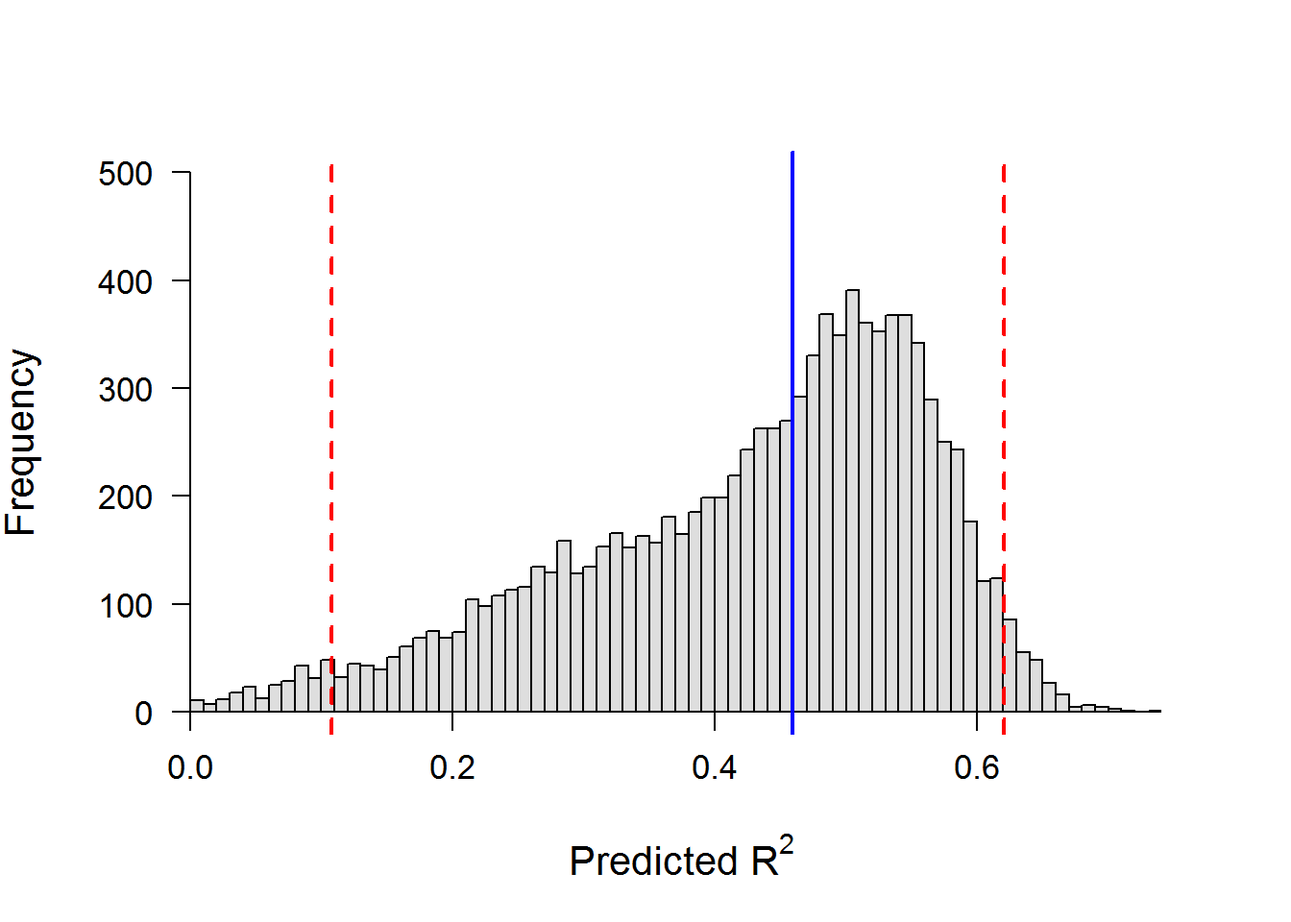
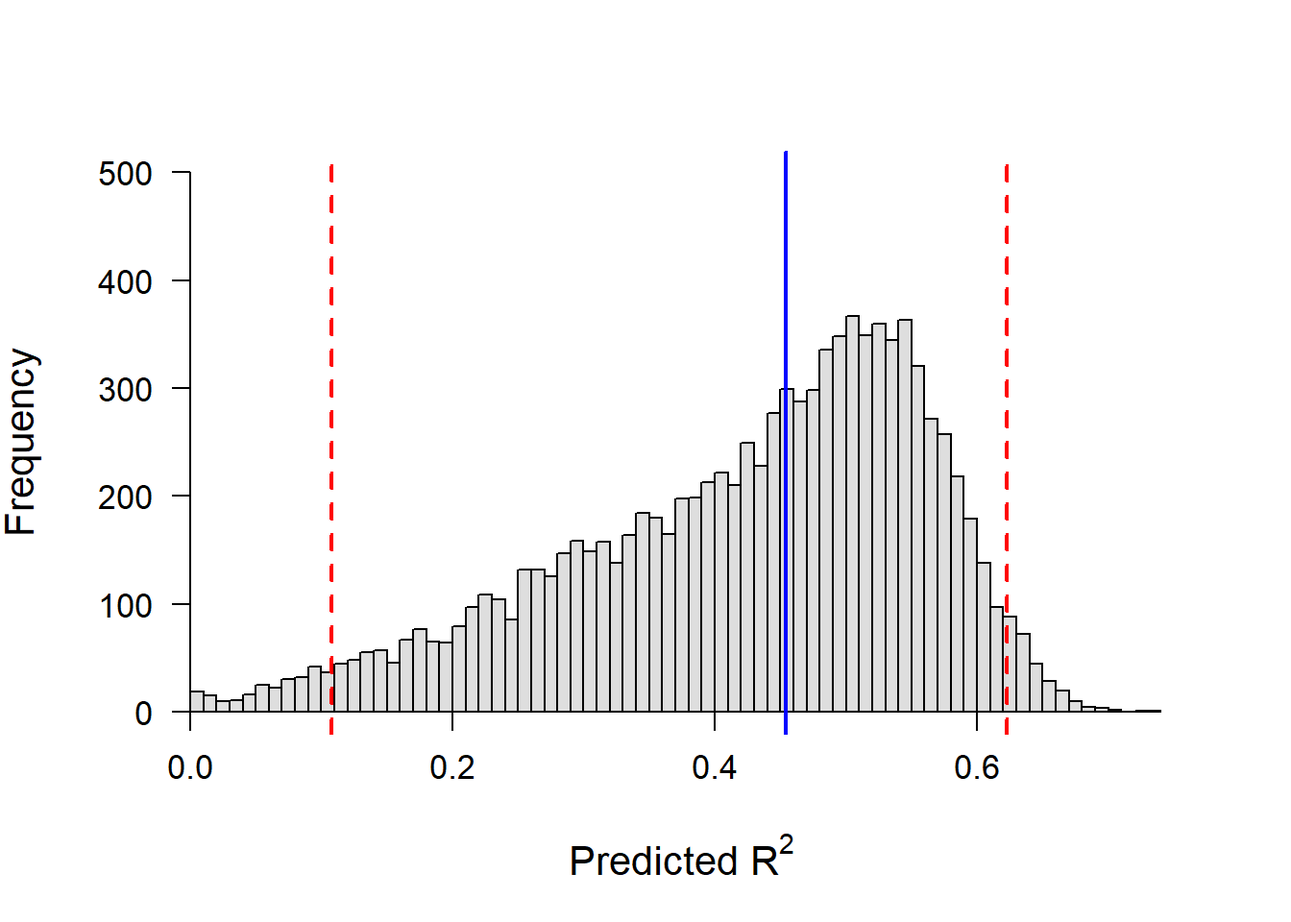
update model selection lecture mod

diff --git a/stich/classes/BIOL678/06_modelSelection.html b/stich/classes/BIOL678/06_modelSelection.html
@@ -286,18 +286,21 @@ Model selection
 Introduction
 </h2>
 <p>As we have learned in the past couple weeks, we often encounter situations for which there are mulitiple, competing hypotheses about what factors, or combinations of factors, best explain the observed patterns in our response of interest. This uncertainty can arise for one of two primary reasons:</p>
-<p><strong>1. Complexity of the study system</strong> Biological systems are complex, and often we are interested in which factor, or set of factors, best predict the patterns we observe in the natural world. In carefully designed experiments, we might be interested in evaluating competing hypotheses about mechanistic drivers of biological phenomena. In complex observational studies, we might simply wish to know what factor or subset of possible factors best predicts the patterns we observe, with the understanding that these findings cannot necessarily be used to infer causality (or ‘mechanism’).</p>
-<p><strong>2. Collinearity</strong> Oh, snap! What did he just say? <strong>Collinearity</strong> is the idea that certain explanatory variables are related to one another. I know, I know; last week I told you that the <em>independence of observations</em> was one of the fundamental assumptions that we make about linear models. That is, all observations are sampled independently from one another. This is a nice ideal, and in certain experimental designs that are “orthogonal”, we can design experiments in such a manner that variables are not collinear. But, in the real world, this is almost never the case.</p>
-<p>Model selection offers a means for us to weigh the information redundancy and effects of collinearity against the information that is gained as a result of including explanatory variables that are related to one another. In real-world cases, our best model will almost always fall somewhere between a model that contains all of the variables we want to include, and a model that contains only those variables that are not collinear.</p>
-<div id="methods-for-model-selection" class="section level3">
-<h3>Methods for model selection</h3>
+<p><strong>1. Complexity of the study system</strong></p>
+<p>Biological systems are complex, and often we are interested in which factor, or set of factors, best predict the patterns we observe in the natural world. In carefully designed experiments, we might be interested in evaluating competing hypotheses about mechanistic drivers of biological phenomena. In complex observational studies, we might simply wish to know what factor or subset of possible factors best predicts the patterns we observe, with the understanding that these findings cannot necessarily be used to infer causality (or ‘mechanism’).</p>
+<p><strong>2. Collinearity</strong></p>
+<p>Oh, snap! What did he just say? <strong>Collinearity</strong> is the idea that certain explanatory variables are related to one another. I know, I know; last week I told you that the <em>independence of observations</em> was one of the fundamental assumptions that we make about linear models. That is, all observations are sampled independently from one another. This is a nice ideal, and in certain experimental designs that are “orthogonal”, we can ensure that variables are not collinear. But, in the real world, this is almost never the case.</p>
+<p>Model selection offers a means for us to weigh the information redundancy and effects of collinearity against the information that is gained as a result of including explanatory variables that are related to one another. In real-world cases, our best model will almost always fall somewhere between a model that contains all of the variables we want to include, and a model that contains only one of those variables.</p>
+<div id="methods-for-model-selection" class="section level2">
+<h2>Methods for model selection</h2>
 <p>Here, we discuss approaches for applying our model-selection tool of choice. As always, I know it is hard to believe, but there is some controversy as to which method of model selection is best for a given situation. Generally speaking, there are 3 major classes of methods for model selection: step-wise selection, all possible subsets, and <em>a priori</em> subsets.</p>
-<div id="step-wise-selection--a-limited-treatment" class="section level4">
-<h4>Step-wise selection- a limited treatment</h4>
-<p>This approach has some well-known pitfalls. For example, it is easy to miss out on important relationships that are not considered because of the automated inclusion or exclusion of ‘significant’ explanatory variables and the order in which they are entered or dropped. This tool also does not include interaction terms that might be of biological interest!</p>
-<div id="forward-selection" class="section level5">
-<h5>Forward selection</h5>
-<p>We start by making a null model and a full model.</p>
+<div id="stepwise-selection--a-limited-treatment" class="section level3">
+<h3>Stepwise selection- a limited treatment</h3>
+<p>The basic idea behind stepwise selection is that we wish to create and test models in a variable-by-variable manner until only relevant variables are left in the model. The relevance of each variable is evaluated in turn relative to some pre-determined criterion.</p>
+<p>While convenient, this approach has some well-known pitfalls. For example, it is easy to miss out on important relationships that are not considered because of the automated inclusion or exclusion of ‘significant’ explanatory variables and the order in which they are entered or dropped. This tool also does not include interaction terms that might be of biological interest by default.</p>
+<div id="forward-selection" class="section level4">
+<h4>Forward selection</h4>
+<p>We start by making a “null” model with none of our variables (a model of the mean) and a full model with all of our explanatory variables.</p>
 <div class="sourceCode"><pre class="sourceCode r"><code class="sourceCode r">null=<span class="kw">lm</span>(Fertility<span class="op">~</span><span class="dv">1</span>, <span class="dt">data=</span>swiss) <span class="co"># 1 means include no x&#39;s</span>
 full=<span class="kw">lm</span>(Fertility<span class="op">~</span>., <span class="dt">data=</span>swiss) <span class="co"># Dot means include all x&#39;s</span></code></pre></div>
 <p>Now we perform the forward selection.</p>
@@ -356,8 +359,8 @@ Coefficients<span class="op">:</span>
          <span class="fl">62.1013</span>           <span class="op">-</span><span class="fl">0.9803</span>            <span class="fl">0.1247</span>            <span class="fl">1.0784</span>           <span class="op">-</span><span class="fl">0.1546</span>  </code></pre></div>
 <p>Here, we see that the best model is that which includes the additive effects of <code>Education</code>, <code>Catholic</code>, <code>Infant.Mortality</code>, and <code>Agriculture</code>.</p>
 </div>
-<div id="backward-selection" class="section level5">
-<h5>Backward selection</h5>
+<div id="backward-selection" class="section level4">
+<h4>Backward selection</h4>
 <p>We can do backward selection using just the full model.</p>
 <div class="sourceCode"><pre class="sourceCode r"><code class="sourceCode r">  <span class="kw">step</span>(full, <span class="dt">data=</span>swiss, <span class="dt">direction =</span> <span class="st">&#39;backward&#39;</span>)
 Start<span class="op">:</span><span class="st">  </span>AIC=<span class="fl">190.69</span>
@@ -391,30 +394,29 @@ Coefficients<span class="op">:</span>
          <span class="fl">62.1013</span>           <span class="op">-</span><span class="fl">0.1546</span>           <span class="op">-</span><span class="fl">0.9803</span>            <span class="fl">0.1247</span>            <span class="fl">1.0784</span>  </code></pre></div>
 <p>In this case we end up with the same model. Note that this is not always the case.</p>
 </div>
-<div id="all-possible-models-all-subsets" class="section level5">
-<h5>All possible models (all subsets)</h5>
-<p>Just as the name states- compare all possible combinations of variables. This is an exploratory approach. It is usually not needed or justified.</p>
+</div>
+<div id="all-possible-models-all-subsets" class="section level3">
+<h3>All possible models (all subsets)</h3>
+<p>Just as the name states- compare all possible combinations of variables. This is largely an exploratory approach or is reserved for cases in which we care solely about prediction.</p>
 <p>We will not discuss these techniques in this class because 1) they are usually not needed 2) they can lead to laziness in formulation of hypotheses and in a worst case data dredging, and 3) plain and simple: there are just better tools available for these purposes now (e.g. GAMM, CART, and network analysis).</p>
 </div>
-</div>
-<div id="a-priori-model-subsets" class="section level4">
-<h4><em>A priori</em> model subsets</h4>
-<p>Consideration of only those models for which we have <em>a priori</em> reasons for inclusion.</p>
-<div id="multi-phase-heirarchical-selection" class="section level5">
-<h5>Multi-phase (heirarchical) selection</h5>
+<div id="a-priori-model-subsets" class="section level3">
+<h3><em>A priori</em> model subsets</h3>
+<p>Consideration of only those models for which we have <em>a priori</em> reasons for inclusion. These are usually models that are designed to represented competing [biological] hypotheses or to balance those hypotheses within a framework for testing.</p>
+<div id="multi-phase-heirarchical-selection" class="section level4">
+<h4>Multi-phase (heirarchical) selection</h4>
 <p>More later in the course…maybe</p>
-<p>Essentially, this means that we impose some kind of hierarchy on the steps we take to test competing hypotheses. For instance, we might first wish to compare hypotheses about some process that we think is of highest relevance. Then, we could use the best model(s) from that set of candidate hypotheses to test hypotheses about other processes of interest, taking into account previous findings. This becomes important if we are thinking about collinear effects of different explanatory variables on multiple (usually categorical) outcomes.</p>
+<p>Essentially, this means that we impose some kind of hierarchy on the steps we take to test competing hypotheses. For instance, we might first wish to compare hypotheses about some process that we think is of greatest relevance, or some kind of underlying phenomenon that must be accounted for prior to investigating biological questions (e.g., detection probabilities in mark-recapture models). Then, we can use the best model(s) from that set of hypotheses as the basis for testing hypotheses about other processes of interest, taking into account previous findings. This becomes important if we are thinking about collinear effects of different explanatory variables on multiple (usually categorical) outcomes.</p>
 </div>
-<div id="single-phase-selection" class="section level5">
-<h5>Single-phase selection</h5>
+<div id="single-phase-selection" class="section level4">
+<h4>Single-phase selection</h4>
 <p>We will discuss this in detail below.</p>
-</div>
 </div>
 </div>
 <div id="tools-for-a-priori-model-selection" class="section level3">
 <h3>Tools for <em>a priori</em> model selection</h3>
 <p>Here, we will focus on a few common approaches to model selection that can be useful in different situations. Although it is a popular alternative, we will not discuss Mallow’s Cp because it involves ‘all subset’ regression and we don’t want to get into that if we can help it. In truth, there are a limited number of exploratory purposes for which this selection method is useful, and in those cases thoughtful study design and alternative statistical approaches are often superior than throwing spaghetti at the wall and looking to see what sticks.</p>
-<p>We will examine:</p>
+<p>We <em>will</em> examine:</p>
 <ul>
 <li><p>Adjusted R<sup>2</sup></p></li>
 <li><p>PRESS statistic</p></li>
@@ -423,7 +425,7 @@ Coefficients<span class="op">:</span>
 <blockquote>
 <p>Let’s check some of these tools out!</p>
 </blockquote>
-<p>Start by fitting some models, we will use the <code>swiss</code> data again.</p>
+<p>Start by fitting some models, we will use the <code>swiss</code> data again this week for the purpose of demonstrating selection tools because it is a noisy data set with lots of complexity.</p>
 <div class="sourceCode"><pre class="sourceCode r"><code class="sourceCode r"><span class="kw">data</span>(<span class="st">&#39;swiss&#39;</span>)
 
 <span class="co"># Fit the model that tests the</span>
@@ -442,13 +444,14 @@ Coefficients<span class="op">:</span>
 <span class="co"># effects of both explanatory variables</span>
   mod.EdxCath =<span class="st"> </span><span class="kw">lm</span>(Fertility<span class="op">~</span>Education<span class="op">*</span>Catholic, <span class="dt">data=</span>swiss)</code></pre></div>
 <p>Now we have four models that represent competing hypotheses:</p>
-<p>1.<code>Education</code> alone is the best explanation among those considered for variability in <code>fertility</code></p>
-<p>2.Percent <code>Catholic</code> alone is the best explanation among those considered for variability in <code>fertility</code></p>
-<p>3.The additive effects of <code>Education</code> and percent <code>Catholic</code> are the best explanation among those considered for variability in <code>fertility</code></p>
-<p>4.The multiplicative effects of <code>Education</code> and percent <code>Catholic</code> are the best explanation among those considered for variability in <code>fertility</code></p>
+<p>1.<code>Education</code> alone is the best explanation among those considered for variability in <code>fertility</code>.</p>
+<p>2.Percent <code>Catholic</code> alone is the best explanation among those considered for variability in <code>fertility</code>.</p>
+<p>3.The additive effects of <code>Education</code> and percent <code>Catholic</code> are the best explanation among those considered for variability in <code>fertility</code>.</p>
+<p>4.The interactive effects of <code>Education</code> and percent <code>Catholic</code> are the best explanation among those considered for variability in <code>fertility</code>.</p>
 <p>Great, but how can we evaluate which of these hypotheses is best supported by our data?</p>
 <div class="sourceCode"><pre class="sourceCode r"><code class="sourceCode r"><span class="co"># Let&#39;s start by making all of our models into a list</span>
   mods =<span class="st"> </span><span class="kw">list</span>(mod.Ed, mod.Cath, mod.EdCath, mod.EdxCath)
+
 <span class="co"># We&#39;ll give the list some names, too</span>
   <span class="kw">names</span>(mods) =<span class="st"> </span><span class="kw">c</span>(<span class="st">&#39;Ed&#39;</span>, <span class="st">&#39;Cath&#39;</span>, <span class="st">&#39;EdCath&#39;</span>, <span class="st">&#39;EdxCath&#39;</span>)</code></pre></div>
 <div id="adjusted-r2" class="section level4">
@@ -492,13 +495,13 @@ F<span class="op">-</span>statistic<span class="op">:</span><span class="st"> </
 [<span class="dv">1</span>] <span class="fl">0.5551665</span>
   <span class="kw">summary</span>(mods<span class="op">$</span>EdxCath)<span class="op">$</span>adj.r.squared
 [<span class="dv">1</span>] <span class="fl">0.5700628</span></code></pre></div>
-<p>When we compare adjusted R-squares, we consider the model with the highest value for this statistic to be the best model. So, in this case, we would conclude that <code>EdxCath</code> is the best model.</p>
+<p>When we compare adjusted R<sup>2</sup>, <strong>the model with the highest R<sup>2</sup> is the “best model”</strong>. So, in this case, we would conclude that <code>EdxCath</code> is the best model.</p>
 </div>
 <div id="press-statistic-predicted-sum-of-squares" class="section level4">
 <h4>PRESS statistic (Predicted sum of squares)</h4>
 <p>To use the PRESS statistic in R, we need to load a new package. Yay!</p>
 <div class="sourceCode"><pre class="sourceCode r"><code class="sourceCode r"><span class="co">#install.packages(&#39;qpcR&#39;)</span>
-<span class="kw">library</span>(qpcR)
+ <span class="kw">library</span>(qpcR)
 
 <span class="co"># Let&#39;s start with a single example. </span>
 <span class="co"># Here, we are given three things in the</span>
@@ -531,11 +534,11 @@ F<span class="op">-</span>statistic<span class="op">:</span><span class="st"> </
   <span class="kw">PRESS</span>(mods<span class="op">$</span>EdxCath)<span class="op">$</span>stat
 .........<span class="dv">10</span>.........<span class="dv">20</span>.........<span class="dv">30</span>.........<span class="dv">40</span>.......
 [<span class="dv">1</span>] <span class="fl">3455.346</span></code></pre></div>
-<p>Opposite from the adjusted R<sup>2</sup>, the lower the value of this statistic, the better the model. The meaning of this statistic is that the model is not “internally” sensitive the the data points. We can draw this interpretation because PRESS is a form of cross validation (which we will discuss later this week).</p>
-<p>So, these are nice tools, but they are based almost exclusively on the sums of squares for our regressions, so they don’t take much into account redundancy in the parameters of the regression. This leads to some problems</p>
+<p><strong>The model with the lowest PRESS statistic is the best model</strong>. The meaning of this statistic is that the model is not “internally” sensitive the the data points. We can draw this interpretation because PRESS is a form of cross validation (which we will discuss later this week).</p>
+<p>So, these are nice tools, but they are based almost exclusively on the sums of squares for our regressions, so they don’t take much into account redundancy in the parameters of the regression, and they don’t apply to models that can’t be fit with least squares estimation. This leads to some problems…</p>
 <ol style="list-style-type: decimal">
 <li><p>Most of the time we are using maximum likelihood estimation for these techniques, and it would be nice to have a tool that takes into account the actual likelihood of the models.</p></li>
-<li><p>This doesn’t allow us to compare two models with respect to how much better one is than another.</p></li>
+<li><p>These tools don’t allow us to determine <em>how much</em> better one model is than another.</p></li>
 <li><p>We have no way to communicate the uncertainty in model selection, nor any simple method for incorporating this uncertainty into our model predictions.</p></li>
 </ol>
 </div>
@@ -544,9 +547,9 @@ F<span class="op">-</span>statistic<span class="op">:</span><span class="st"> </
 <h5 id="multi">
 Akaike’s information criterion (AIC)
 </h5>
-<p>This tool (or the popular alternative, BIC) will be more useful for us during the next several weeks than any of the previous methods because it makes inference based on the likelihood of the model rather than the sums of squares, which we will learn that GLMs and other generalizations do not have!</p>
-<p>Information-theoretic approaches to model selection are based on the trade off in information gained through addition of parameters and the added complexity of the models, with respect to sample size. I will hold off on a detailed Rscript explanation because you will read more about this tool in your readings for this week. So, let’s cut straight to the chase.</p>
-<p>Remember that we made a list of <em>a priori</em> models above that we would like to consider</p>
+<p>This tool (or the popular alternative, BIC) will be more useful for us during the next several weeks than any of the previous methods because it allows us to draw inference based on the likelihood of the model rather than the sums of squares, which we will learn that GLMs and other generalizations do not have!</p>
+<p>Information-theoretic approaches to model selection are based on the trade off in information gained through addition of parameters and the added complexity of the models, with respect to sample size. I will hold off on a detailed explanation because you will learn more about this tool in your readings. So, let’s cut straight to the chase.</p>
+<p>Remember that we made a list of <em>a priori</em> models above that we would like to consider.</p>
 <div class="sourceCode"><pre class="sourceCode r"><code class="sourceCode r"><span class="co"># Get the names of those models</span>
   <span class="kw">names</span>(mods)
 [<span class="dv">1</span>] <span class="st">&quot;Ed&quot;</span>      <span class="st">&quot;Cath&quot;</span>    <span class="st">&quot;EdCath&quot;</span>  <span class="st">&quot;EdxCath&quot;</span>
@@ -557,7 +560,7 @@ Akaike’s information criterion (AIC)
   <span class="kw">mapply</span>(<span class="dt">FUN =</span> <span class="st">&#39;AIC&#39;</span>, mods)
       Ed     Cath   EdCath  EdxCath 
 <span class="fl">348.4223</span> <span class="fl">364.3479</span> <span class="fl">337.5636</span> <span class="fl">336.8823</span> </code></pre></div>
-<p>Now we have a named vector holding AIC values for each of our named models. At a glance, we can see that our model with the interaction is the ‘best’ model in the set as indicated by our other statistics, but this time it is only better by less than 1 AIC (lower is better). Can we say anything about that?</p>
+<p>Now we have a named vector holding AIC values for each of our named models. At a glance, we can see that our model with the interaction is the ‘best’ model in the set as indicated by our other statistics, but this time it is only better by less than 1 AIC (<strong>lower AIC is better</strong>). Can we say anything about that?</p>
 <p>Funny you should ask. Yes, we can. We have a few general rules of thumb for interpreting the AIC statistic, and we can actually derive a whole set of statistics based on these rankings.</p>
 <blockquote>
 <p>Open can of worms…</p>
@@ -581,7 +584,7 @@ Cath    <span class="dv">3</span> <span class="fl">364.91</span>      <span clas
 <p>From left to right</p>
 <p>First, notice that the rownames are actually our model names</p>
 <p><strong><code>K</code></strong> is the number of parameters in each of the models</p>
-<p><strong><code>AICc</code></strong> is the AIC score, but it is corrected for sample size. Generally speaking, this means models with many parameters and small number of observations are penalized for potential instability in the likelihood. In general, using the AIC<sub>c</sub> is almost always a practical approach because it is conservative and the effect of the penalty goes away with sufficient sample sizes.</p>
+<p><strong><code>AICc</code></strong> is the AIC score, but it is corrected for sample size. Generally speaking, this means models with many parameters and small number of observations are penalized for potential instability in the likelihood. In general, using the AIC<sub>c</sub> is almost always a practical approach because it is conservative and the effect of the penalty goes away with sufficiently large sample sizes.</p>
 <p><strong><code>Delta_AICc</code></strong> is the difference in AIC<sub>c</sub> between the best model and each of the other models.</p>
 <p><strong><code>AICcWt</code></strong> is the probability that a given model is the best model in the candidate set.</p>
 <p><strong><code>Cum.Wt</code></strong> is the cumulative weights represented by each of the models from best to last. This can be used to create a 95% confidence set of models.</p>
@@ -591,10 +594,10 @@ Cath    <span class="dv">3</span> <span class="fl">364.91</span>      <span clas
 <p><strong>In general</strong>:</p>
 <p>A lower AIC is better.</p>
 <p>Models with <span class="math inline">\(\Delta\)</span>AIC<sub>c</sub> of less than 2.0 are considered to have similar support as the best model. Models with <span class="math inline">\(\Delta\)</span>AIC<sub>c</sub> from 2 to 4 have some support in the data, but not as much. Models with <span class="math inline">\(\Delta\)</span>AIC<sub>c</sub> &gt; 4 have virtually no support.</p>
-<p>The ratio of AIC weights (w<sub>i</sub>)can be used to interpret the improvement between the best model and each subsequent model. In this example, the best model is only <span class="math inline">\(\frac{0.52}{0.48} = 1.08 \times\)</span> better supported than the next best model, but the best two models have all of the support</p>
+<p>The ratio of AIC weights (w<sub>i</sub>)can be used to interpret the improvement between the best model and each subsequent model. In this example, the best model is only <span class="math inline">\(\frac{0.52}{0.48} = 1.08 \times\)</span> better supported than the next best model, but the best two models have all of the support.</p>
 <p>Our results suggest that <code>Education</code> and <code>Catholic</code> are the both important in explaining the variation in <code>Fertility</code>, because both are included in any model receiving any support in the candidate set.</p>
 <p>Unlike our previous results, we have no clear winner in this case, and we are left wondering whether it is the additive effects or the multiplicative effects of <code>Education</code> and <code>Catholic</code> that are important. But, we still may want to get estimates for our main effects, at least, so we can make some good solid inference on the effect sizes. If only we had a method for dealing with this uncertainty now…Oh wait, we do!</p>
-<p>Using model averaging to account for the model uncertainty, we can see that the unconditional confidence interval for <code>Education</code> is negative and does not overlap zero, and the opposite trend is evident in the trend for <code>Catholic</code>. However. set, we find out that the interaction is actually not significant, which is probably why the main effects model had equivelent support in the candidate set</p>
+<p>Using model averaging to account for the model uncertainty, we can see that the unconditional confidence interval for <code>Education</code> is negative and does not overlap zero, and the opposite trend is evident in the trend for <code>Catholic</code>. We also find out that the interaction between <code>Education</code> and <code>Catholic</code> is actually not significant, which is probably why the main effects model had equivelent support in the candidate set.</p>
 <div class="sourceCode"><pre class="sourceCode r"><code class="sourceCode r"><span class="kw">modavg</span>(mods, <span class="dt">parm =</span> <span class="st">&#39;Education&#39;</span>, <span class="dt">modnames =</span> <span class="kw">names</span>(mods),
        <span class="dt">conf.level =</span> .<span class="dv">95</span>, <span class="dt">exclude =</span> <span class="ot">TRUE</span>)
 
@@ -639,24 +642,26 @@ Model<span class="op">-</span>averaged estimate<span class="op">:</span><span cl
 Unconditional SE<span class="op">:</span><span class="st"> </span><span class="fl">0.01</span> 
 <span class="dv">95</span>% Unconditional confidence interval<span class="op">:</span><span class="st"> </span><span class="op">-</span><span class="fl">0.02</span>, <span class="dv">0</span></code></pre></div>
 <p>Isn’t that fantastic? From here we could move on to make predictions based on the model-averaged parameter estimates using what you learned last week. But…what if we weren’t convinced so easily and wanted a reliable means of seeing how well our model actually performs now that we’ve selected one (or more)? More on this below…</p>
+<p>The simple fact of the matter is that we have selected a “best” model, but that doesn’t mean our model is necessarily a “good” model.</p>
+</div>
 </div>
 </div>
 </div>
 <div id="model-validation" class="section level2">
 <h2>Model validation</h2>
-<p>Once we have selected a best model, or a set of explanatory variables that we want to consider in our analysis, it is often important that we validate that model whenever possible. In truth, comparison of the validity of multiple models can even be a method for model selection, but we are not going to go there this semester because it would require a much richer understanding of programming than we can achieve in a week.</p>
+<p>Once we have selected a best model, or a set of explanatory variables that we want to consider in our analysis, it is important that we validate that model when possible. In truth, comparison of the validity of multiple models can even be a method for model selection in itself, but we are not going to go there this semester because it would require a much richer understanding of programming than we can achieve in a week.</p>
 <div id="what-is-model-validation" class="section level3">
 <h3>What is model validation?</h3>
 <p>Model validation is the use of external data, or subsets of data that we have set aside for use in assessing the predictive ability of our models. That is, we can use new data to test how well our model works for making predictions about the system of interest. Pretty cool, I know!</p>
-<p>There are lots of different methods for model validation, each of which uses some of your data for fitting the model and then saves some of the data for predicting new observations based on your model parameters. We can do this by hand if we want to, but for the sake of this course, let’s avoid the extraneous programming knowledge required for this and just use some of the built-in functions in readily available R packages.</p>
+<p>There are lots of different methods for model validation, each of which uses some of your data for fitting (or <strong>training</strong>) the model and then saves some of the data for predicting new observations based on your model parameters (<strong>testing</strong>). We can do this by hand if we want to, but for the sake of this course, let’s avoid the extraneous programming knowledge required for this and just use some of the built-in functions in readily available R packages.</p>
 <p>Very generally speaking, there are a large (near-infinite) number of ways to do model validation based on how you split up your data set and how you choose to evaluate predictions. This <a href="http://machinelearningmastery.com/how-to-estimate-model-accuracy-in-r-using-the-caret-package/">blog</a> gives a nice overview of these methods with the <code>iris</code> data set in R using the <code>caret</code> package.</p>
 </div>
 <div id="worked-example" class="section level3">
 <h3>Worked example</h3>
 <p>Let’s work an example for the models we built for the swiss data above. We do this ‘by hand’ to show how this works:</p>
 <div id="leave-one-out-cross-validation" class="section level4">
-<h4>Leave one out cross validation</h4>
-<p>First, make a couple of empty vectors to hold our training and predicting.</p>
+<h4>Leave-one-out cross validation</h4>
+<p>First, make a couple of empty vectors to hold our training data and our predictions.</p>
 <div class="sourceCode"><pre class="sourceCode r"><code class="sourceCode r">  ed.obs =<span class="st"> </span><span class="kw">c</span>()  <span class="co"># Will hold observation witheld for each iteration</span>
   ed.pred =<span class="st"> </span><span class="kw">c</span>() <span class="co"># Will hold our prediction for each iteration</span></code></pre></div>
 <p>Now, drop one data point, fit the model, and predict the missing data point one row at a time until you have done them all.</p>
@@ -742,11 +747,11 @@ ed.pred      <span class="fl">1.000000e+00</span>  <span class="fl">0.1679651</s
   <span class="kw">lines</span>(pred.pts[,<span class="dv">1</span>], pred[,<span class="dv">2</span>], <span class="dt">col =</span> <span class="st">&#39;red&#39;</span>, <span class="dt">lty=</span><span class="dv">2</span>, <span class="dt">lwd=</span><span class="dv">2</span>)
   <span class="kw">lines</span>(pred.pts[,<span class="dv">1</span>], pred[,<span class="dv">3</span>], <span class="dt">col =</span> <span class="st">&#39;red&#39;</span>, <span class="dt">lty=</span><span class="dv">2</span>, <span class="dt">lwd=</span><span class="dv">2</span>)</code></pre></div>
 <p><img src="06_modelSelection_files/figure-html/unnamed-chunk-16-1.png" width="672" /></p>
-<p>There are lots of other takes on cross-validation, including popular approaches such as k-fold cross-validation, many of which can be implemented in wrappers available through various R packages. I will leave you to explore these in your leisure time.</p>
+<p>There are lots of other takes on cross-validation, including popular approaches such as k-fold cross-validation, and a number of simulation-based tools: many of which can be implemented in wrappers available through various R packages. I will leave you to explore these in your leisure time. In general, the more data that are set aside, the more robust the validation is, but we usually don’t want to set aside so much of our data that the training model isn’t representative of the data we’ve collected.</p>
 </div>
 <div id="boot-strapping-method" class="section level4">
 <h4>Boot-strapping method</h4>
-<p>Boot strapping is similar to cross validation in that we leave out some chunk of data and fit a model. The only difference here is that we are randomly selecting the training data each time, rather than working our way through the data systematically. The only difficulty now becomes choosing the appropriate amount of data to leave out for this validation tool…</p>
+<p>Boot strapping (or “jack-knifing”) is similar to cross validation in that we leave out some chunk of data and fit a model. The only difference here is that we are randomly selecting the training data each time, rather than working our way through the data systematically. The only difficulty now becomes choosing the appropriate amount of data to leave out for this validation tool…</p>
 <div class="sourceCode"><pre class="sourceCode r"><code class="sourceCode r"><span class="co"># First, make an empty vector to</span>
 <span class="co"># hold our training and predicting data</span>
   p.Rsquare =<span class="st"> </span><span class="kw">c</span>()
@@ -777,11 +782,11 @@ ed.pred      <span class="fl">1.000000e+00</span>  <span class="fl">0.1679651</s
 
 }</code></pre></div>
 <p>We can now calculate the median predicted R-squared and the 95% CI on this test statistic</p>
-<div class="sourceCode"><pre class="sourceCode r"><code class="sourceCode r">      <span class="kw">median</span>(p.Rsquare)
-[<span class="dv">1</span>] <span class="fl">0.4593379</span>
-      <span class="kw">quantile</span>(p.Rsquare, <span class="dt">probs =</span> <span class="kw">c</span>(<span class="fl">0.025</span>, <span class="fl">0.975</span>))
+<div class="sourceCode"><pre class="sourceCode r"><code class="sourceCode r">  <span class="kw">median</span>(p.Rsquare)
+[<span class="dv">1</span>] <span class="fl">0.4542436</span>
+  <span class="kw">quantile</span>(p.Rsquare, <span class="dt">probs =</span> <span class="kw">c</span>(<span class="fl">0.025</span>, <span class="fl">0.975</span>))
      <span class="fl">2.5</span><span class="op">%     97.5%</span><span class="st"> </span>
-<span class="fl">0.1078884</span> <span class="fl">0.6205961</span> </code></pre></div>
+<span class="fl">0.1080989</span> <span class="fl">0.6225763</span> </code></pre></div>
 <p>We can look at the distribution of our r-squared values for regressions that measure the fit between our predictions and our observations</p>
 <div class="sourceCode"><pre class="sourceCode r"><code class="sourceCode r"><span class="co"># Plot the histogram</span>
   <span class="kw">hist</span>(p.Rsquare, <span class="dt">breaks=</span><span class="dv">100</span>, <span class="dt">yaxt=</span><span class="st">&#39;n&#39;</span>, <span class="dt">xaxt=</span><span class="st">&#39;n&#39;</span>,
@@ -801,6 +806,7 @@ ed.pred      <span class="fl">1.000000e+00</span>  <span class="fl">0.1679651</s
     <span class="kw">abline</span>(<span class="dt">v=</span><span class="kw">quantile</span>(p.Rsquare, <span class="kw">c</span>(<span class="fl">0.025</span>, <span class="fl">0.975</span>)),
            <span class="dt">col=</span><span class="st">&#39;red&#39;</span>, <span class="dt">lty=</span><span class="dv">2</span>, <span class="dt">lwd=</span><span class="dv">2</span>)    </code></pre></div>
 <p><img src="06_modelSelection_files/figure-html/unnamed-chunk-19-1.png" width="672" /></p>
+<p>This approach is not only useful for cross-validation, but can also be a good tool for assessing a priori statistical power based on some estimates of variance, effect sizes, and variable sample sizes. We recently used the approach to do this for <a href="https://www.sciencedirect.com/science/article/pii/S1470160X19300731?utm_campaign=STMJ_75273_AUTH_SERV_PPUB&utm_medium=email&utm_dgroup=Email1Publishing&utm_acid=252084706&SIS_ID=-1&dgcid=STMJ_75273_AUTH_SERV_PPUB&CMX_ID=&utm_in=DM461565&utm_source=AC_30">community metrics in brook trout streams</a> in NY so we could determine what sampling intensity was needed to detect biologically meaningful responses to acid rain recovery. Such investigations allow us to plan our studies ahead of time and potentially save time and money, in addition to serving as validation tools.</p>
 </div>
 </div>
 </div>
